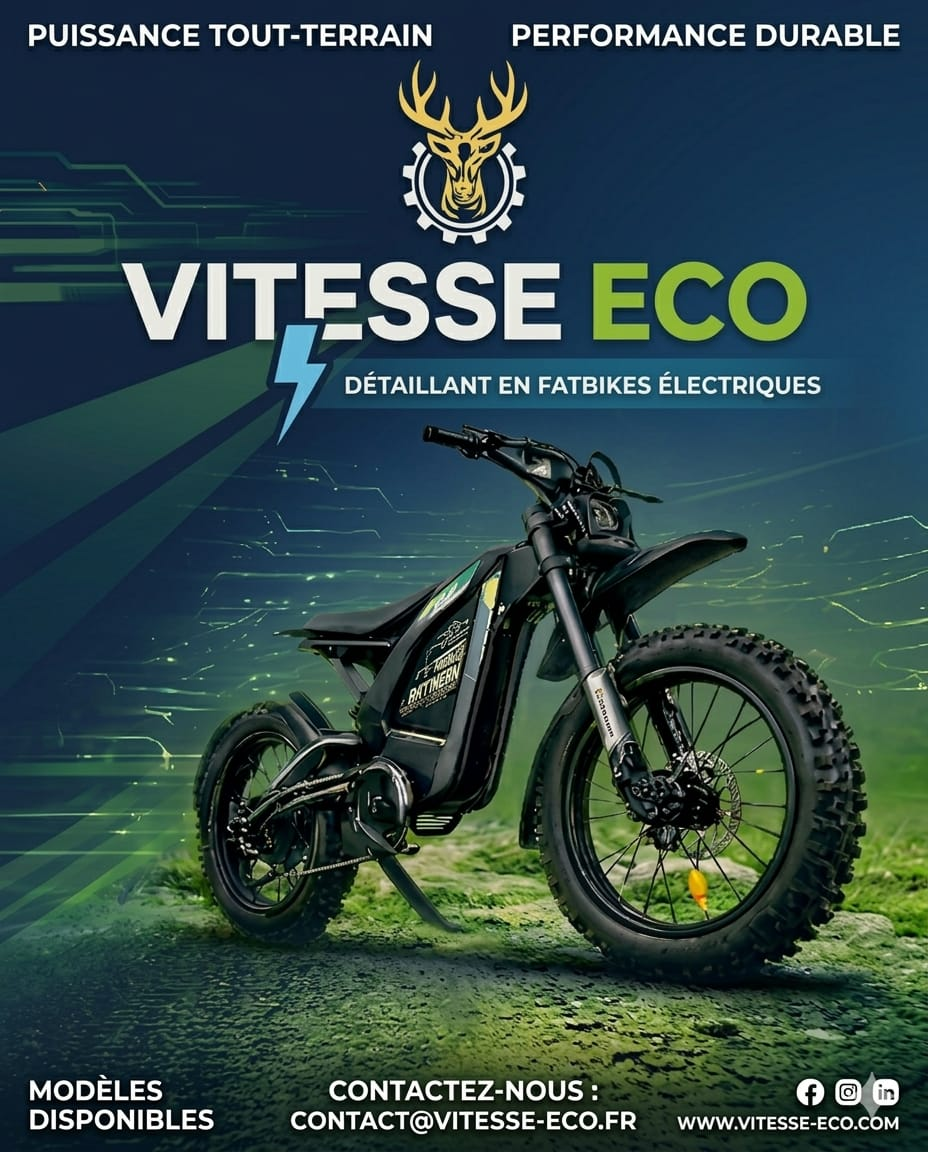
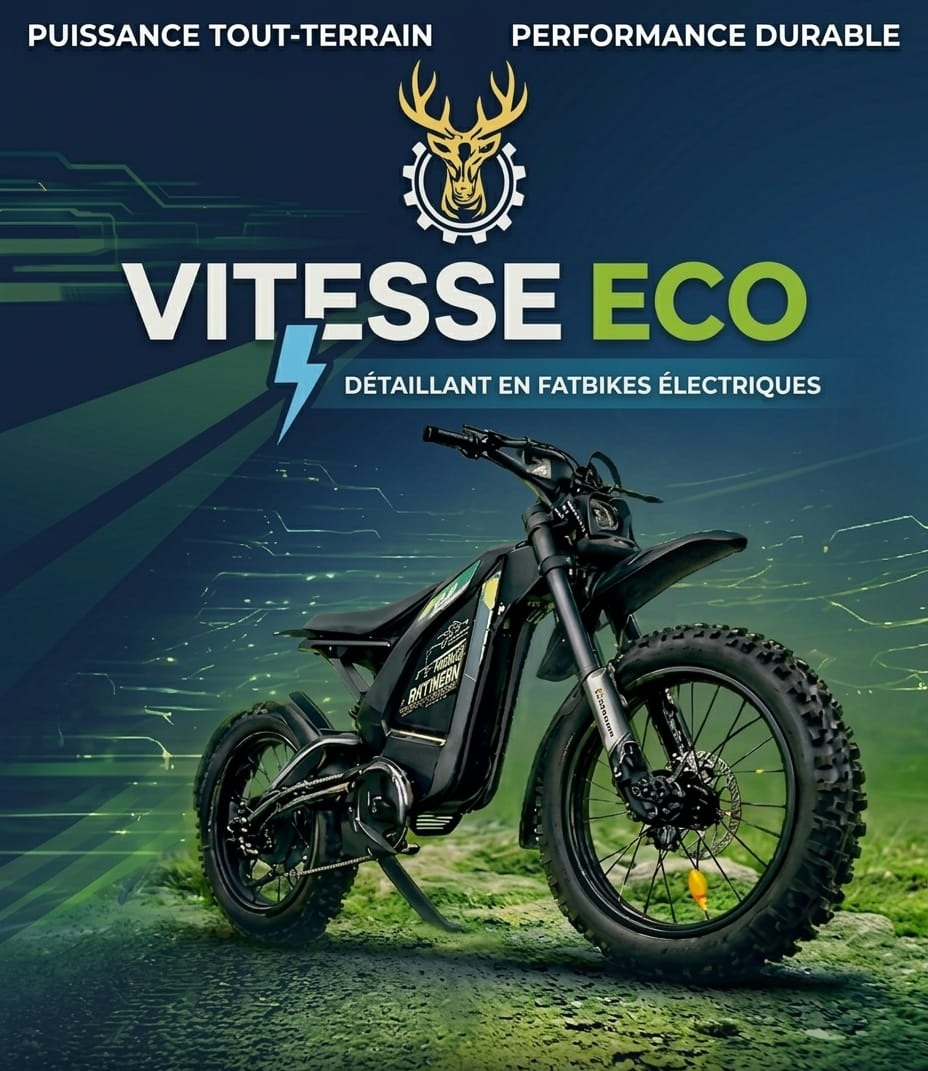
Fix loading: custom useSanityFetch with useAsyncData + watch
- Created useSanityFetch composable using useAsyncData + useSanityClient
- Dynamic keys for product pages (re-fetches on slug change)
- watch option for reactive params (computed refs auto-watched)
- Replaced all useSanityQuery calls across all pages
- Updated poster image

diff --git a/composables/useSanityFetch.ts b/composables/useSanityFetch.ts
@@ -1,0 +1,33 @@
+export function useSanityFetch<T = any>(
+  key: string | (() => string),
+  query: string,
+  params?: Record<string, any>
+) {
+  const client = useSanityClient()
+
+  const resolveParams = () => {
+    if (!params) return {}
+    const resolved: Record<string, any> = {}
+    for (const [k, v] of Object.entries(params)) {
+      resolved[k] = isRef(v) ? v.value : typeof v === 'function' ? v() : v
+    }
+    return resolved
+  }
+
+  const resolveKey = () => typeof key === 'function' ? key() : key
+
+  // Collect reactive sources for watch
+  const watchSources: any[] = []
+  if (params) {
+    for (const v of Object.values(params)) {
+      if (isRef(v)) watchSources.push(v)
+    }
+  }
+  if (typeof key === 'function') watchSources.push(key)
+
+  return useAsyncData<T>(
+    resolveKey(),
+    () => client.fetch<T>(query, resolveParams()),
+    watchSources.length ? { watch: watchSources } : {}
+  )
+}

diff --git a/pages/produits/index.vue b/pages/produits/index.vue
@@ -151,7 +151,7 @@ const tireSizes = ['16"', '20"', '24"', '70/100-17"']
 
 // Fetch categories
 const catQuery = groq`*[_type == "category"] | order(sortOrder asc) { _id, name, slug }`
-const { data: categories } = useSanityQuery(catQuery)
+const { data: categories } = useSanityFetch('categories', catQuery)
 
 // Fetch all products
 const prodQuery = groq`*[_type == "product" && isAvailable == true] | order(sortOrder asc) {
@@ -159,7 +159,7 @@ const prodQuery = groq`*[_type == "product" && isAvailable == true] | order(sort
   mainImage, specifications, category->{ _id },
   variants[]{ _key, colorHex, colorName }
 }`
-const { data: products } = useSanityQuery(prodQuery)
+const { data: products } = useSanityFetch('all-products', prodQuery)
 
 const filteredProducts = computed(() => {
   if (!products.value) return []

diff --git a/pages/produits/[slug].vue b/pages/produits/[slug].vue
@@ -185,12 +185,11 @@ const productQuery = groq`*[_type == "product" && slug.current == $slug][0] {
   variants[]{ _key, colorName, colorHex, sku, stock, priceOverride, images },
   relatedProducts[]->{ _id, name, slug, price, mainImage }
 }`
-const { data: product, refresh: refreshProduct } = useSanityQuery(productQuery, { slug })
-
-// Re-fetch on client-side navigation
-if (import.meta.client) {
-  watch(slug, () => refreshProduct())
-}
+const { data: product } = useSanityFetch(
+  () => `product-${slug.value}`,
+  productQuery,
+  { slug }
+)
 
 // Reset UI state when product changes
 watch(() => product.value?._id, () => {

diff --git a/pages/mentions-legales.vue b/pages/mentions-legales.vue
@@ -26,7 +26,7 @@
 const { t, locale } = useI18n()
 const l = useLocalizedField()
 useHead({ title: `${t('footer.mentions_legales')} — Vitesse Eco` })
-const { data: legalData } = useSanityQuery(groq`*[_type == "legalPages"][0]`)
+const { data: legalData } = useSanityFetch('legal-pages', groq`*[_type == "legalPages"][0]`)
 
 const ipTexts: Record<string, string> = {
   fr: "L'ensemble du contenu de ce site (textes, images, logos, vidéos) est la propriété exclusive de VITESSE ECO ou de ses partenaires. Toute reproduction est interdite sans autorisation écrite préalable.",

diff --git a/pages/index.vue b/pages/index.vue
@@ -120,7 +120,7 @@ const query = groq`*[_type == "product" && isFeatured == true] | order(sortOrder
   _id, name, slug, shortDescription, price, compareAtPrice, isOnSale, isNew, mainImage,
   variants[]{ _key, colorHex }
 }`
-const { data: featuredProducts } = useSanityQuery(query)
+const { data: featuredProducts } = useSanityFetch('featured-products', query)
 
 const values = computed(() => [
   { icon: 'ph:battery-charging', title: t('home.value1_title'), desc: t('home.value1_desc') },

diff --git a/pages/politique-confidentialite.vue b/pages/politique-confidentialite.vue
@@ -23,7 +23,7 @@
 const { t, locale } = useI18n()
 const l = useLocalizedField()
 useHead({ title: `${t('footer.privacy')} — Vitesse Eco` })
-const { data: legalData } = useSanityQuery(groq`*[_type == "legalPages"][0]`)
+const { data: legalData } = useSanityFetch('legal-pages', groq`*[_type == "legalPages"][0]`)
 
 const allTexts: Record<string, { collection: string; use: string; rights: string; cookies: string }> = {
   fr: {

diff --git a/pages/a-propos.vue b/pages/a-propos.vue
@@ -53,7 +53,7 @@ const l = useLocalizedField()
 useHead({ title: `${t('about.title')} — Vitesse Eco` })
 
 const query = groq`*[_type == "aboutPage"][0] { story }`
-const { data: aboutData } = useSanityQuery(query)
+const { data: aboutData } = useSanityFetch('about-page', query)
 
 const aboutText = computed(() => {
   if (aboutData.value?.story) return l(aboutData.value.story)

diff --git a/pages/cgv.vue b/pages/cgv.vue
@@ -25,7 +25,7 @@
 const { t, locale } = useI18n()
 const l = useLocalizedField()
 useHead({ title: `${t('footer.cgv')} — Vitesse Eco` })
-const { data: legalData } = useSanityQuery(groq`*[_type == "legalPages"][0]`)
+const { data: legalData } = useSanityFetch('legal-pages', groq`*[_type == "legalPages"][0]`)
 
 const allTexts: Record<string, Record<string, string>> = {
   fr: {
